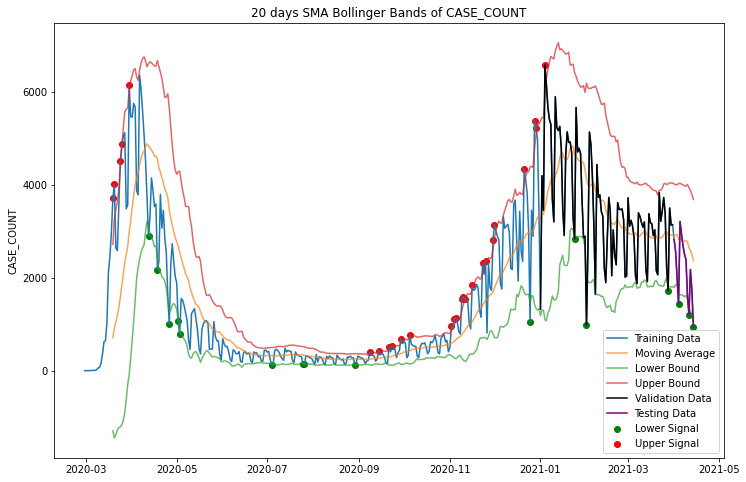
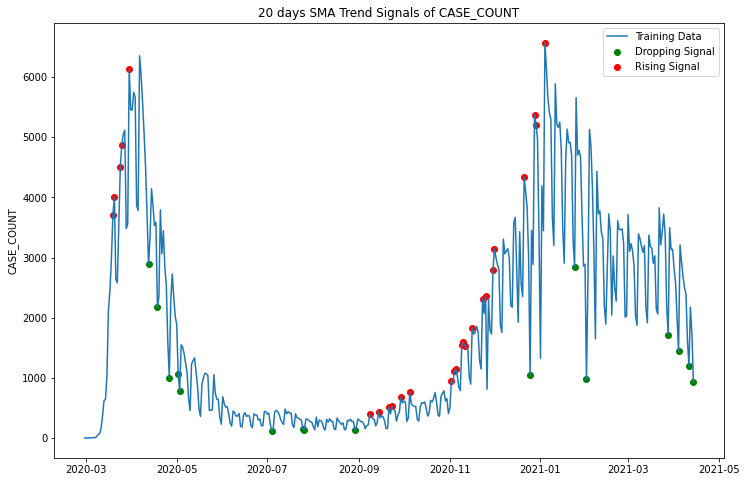
new ml plot

diff --git a/app/templates/new-search-page.html b/app/templates/new-search-page.html
@@ -109,9 +109,9 @@
                 <div class="container">
                     <div class="row">
                         <div class="col text-center">
-                            <h2 class="tm-section-title" id='mapHeader'>Explore COVID-19 Data in Your Neighborhood</h2>
-                            <p class="tm-color-white tm-section-subtitle" id='mapText1'>[instructions or example usage line 1]</p>
-                            <p class="tm-color-white tm-section-subtitle" id='mapText2'>[instructions or example usage line 2]</p>
+                            <h2 class="tm-section-title" id='mapHeader'>Get COVID-19 Information with Our App</h2>
+                            <p class="tm-color-white tm-section-subtitle" id='mapText1'><i class="fa fa-compass" style="padding: 0 10px;"></i>Explore Low-Risk Neighborhoods on the Heatmap</p>
+                            <p class="tm-color-white tm-section-subtitle" id='mapText2'><i class="fa fa-file-code-o" style="padding: 0 10px;"></i>Learn Future Trends of COVID Cases in NYC</p>
                         </div>                
                     </div>
                 </div>        
@@ -137,8 +137,10 @@
                         </div>
                         <div class="col-xs-12 col-sm-12 col-md-6 col-lg-6 col-xl-6 mt-3 mt-md-0">
                             <div class="tm-bg-white tm-p-4">
-                                <p>[Cases Prediction in NYC]</p>
-                                <p>Lorem ipsum dolor sit amet, consectetur adipiscing elit, sed do eiusmod tempor incididunt ut labore et dolore magna aliqua. Ut enim ad minim veniam, quis nostrud exercitation ullamco laboris nisi ut aliquip ex ea commodo consequat. Excepteur sint occaecat cupidatat non proident, sunt in culpa qui officia deserunt mollit anim id est laborum consectetur adipiscing elit, sed do eiusmod tempor incididunt ut labore et dolore magna aliqua. Ut enim ad minim veniam, quis nostrud exercitation ullamco laboris nisi ut aliquip ex ea commodo consequat. </p>
+                                <p style="margin-bottom: 0.5rem;"> It’s undeniable that the pandemic influences the population socially and studying its movement can help with citizen's judgement. This app employs machine learning(Bollinger Bands) to obtain volatility analysis on the trend and fluctuation of COVID data in NYC.</p>
+                                <p style="margin-bottom: 0;"><a href="https://github.com/nychealth/coronavirus-data" class="tm-color-primary tm-font-normal">Data</a> includes historical daily COVID cases for New York City up to the end of 04/17/21</p>
+                                <img src="./static/plot.png" alt="Case Prediction Based on Machine Learning" id="casePlot">
+                                <p style="margin-bottom: 0;">When the daily cases break out of the upper bound of the 20-day moving average(red signals), we expect it to continue the upward trend. When the number of cases breaks out of the lower bound of moving average(green signals), we expect the cases to decrease in the near future. For the most recent data (on the very right side), 4 consecutive green signals indicate case drops and a lower risk level for NYC.</p>
                             </div>                            
                         </div>
                     </div>        

diff --git a/app/static/main.css b/app/static/main.css
@@ -29,7 +29,10 @@ a:focus {
 .tm-fa-6x { font-size: 6em; }
 .tm-margin-b-0 { margin-bottom: 0; }
 .tm-margin-b-20 { margin-bottom: 20px; }
-.tm-p-4 { padding: 2rem!important; }
+.tm-p-4 { 
+	padding-left: 2rem!important; 
+	padding-right: 2rem!important; 
+}
 .tm-color-white { color: white; }
 .tm-color-primary {	color: #d22c2c; }
 .tm-color-dark {	color: #6e1b09; }
@@ -55,7 +58,7 @@ a:focus {
 
 a.tm-color-primary:hover,
 a.tm-color-primary:active {
-	color: #d22c2c;
+	color: #6e1b09;
 }
 
 .tm-font-light { font-weight: 300; }
@@ -550,7 +553,13 @@ video {
   }
 
 footer a:hover{
-	color:#6e1b09;
+	color:#f07249 !important;
+}
+
+#casePlot{
+    max-width: 100%;
+    max-height: 100%;
+	margin-bottom: 1rem;
 }
 
 @media screen and (max-width: 991px) {
